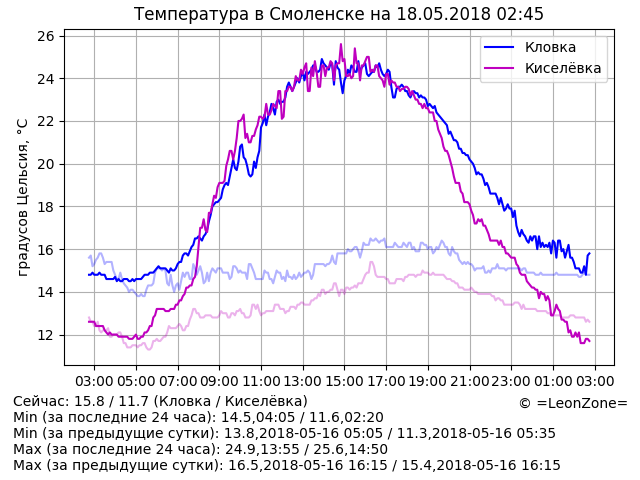
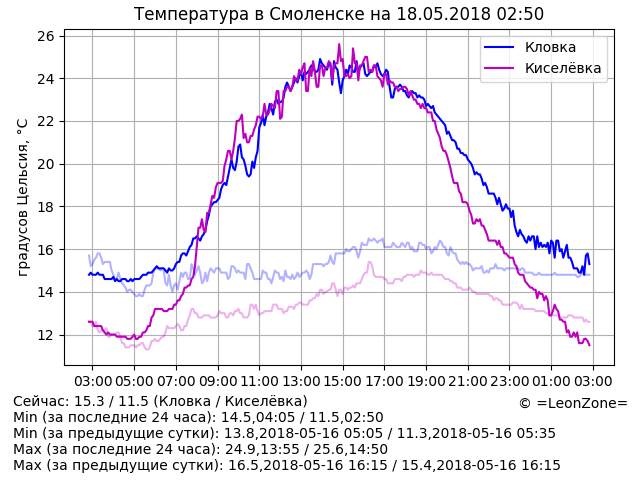
Update data

diff --git a/index.html b/index.html
@@ -14,8 +14,8 @@
 	<p align="center"><script>document.write("<img src=\"graph.png?rnd="+Math.random()+"\" alt=\"Температура в Смоленске\" align=\"middle\" width=\"640\" height=\"480\" />")</script>
 	<p hidden="true">
 <!-- textinfo -->
-Сейчас: 15.8 / 11.7 (Кловка / Киселёвка)
-Min (за последние 24 часа): 14.5,04:05 / 11.6,02:20
+Сейчас: 15.3 / 11.5 (Кловка / Киселёвка)
+Min (за последние 24 часа): 14.5,04:05 / 11.5,02:50
 Min (за предыдущие сутки): 13.8,2018-05-16 05:05 / 11.3,2018-05-16 05:35
 Max (за последние 24 часа): 24.9,13:55 / 25.6,14:50
 Max (за предыдущие сутки): 16.5,2018-05-16 16:15 / 15.4,2018-05-16 16:15
